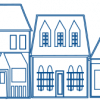
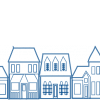
finalized placements

diff --git a/wp-content/themes/themer/core.less b/wp-content/themes/themer/core.less
@@ -6,11 +6,44 @@ body{
 }
 
 .logo{
- margin:0 auto;
+ margin:5px auto;
 
   
 }
+.navbar{
+  margin:0;
+  background:#0099cc;
+  color:#fff;
+  border-bottom:0;
+   ul li a{
+      color:#fff;
 
+    }
+  li:hover{
+    background: #fabe2b;
+    color:#fff;
+    
+  }
+  .navbar-toggle{
+    color:#fff;
+    border:none;
+    
+  }
+  .navbar-toggle:hover{
+    background:#0099cc;
+    color:#fff;
+    border:none;
+
+  }
+}
+.navbar-default .navbar-nav > li > a {
+  color: #fff;
+  
+}
+.navbar-default .navbar-nav > li > a:hover {
+  color: #fff;
+
+}
 .slider-caption{
   position:absolute;
 
@@ -18,26 +51,51 @@ body{
 
 }
 
+#books{
+  h4{
+    color:#851a1e;
+    font-size:1.2em;
+    
+  }
+  h5{
+    color:#999999;
+    font-size:1em;
+    
+  }
+  
+}
+
 .about{
   background:#eef6f8;
-  
+  font-size:1.1em;
+  .col-md-5{
+    padding-right:0;
+    
+  }
+  .houses{
+    float:right;
+
+  }
+  img{
+    float:right;
+
+  }
 }
 
-.houses{
- 
-  vertical-align: bottom;
 
-  
-}
 
 footer{
   background:#0099cc;
   color:#fff;
   line-height:1.5em;
-  padding:20px;
+  padding:20px 0 20px 0;
   
   a{
     color:#fff;
+    font-weight:500;
+  }
+  p{
+    font-weight:700;
     
   }
   

diff --git a/wp-content/themes/themer/core.css b/wp-content/themes/themer/core.css
@@ -4,24 +4,71 @@ body {
   margin: 0;
 }
 .logo {
-  margin: 0 auto;
+  margin: 5px auto;
+}
+.navbar {
+  margin: 0;
+  background: #0099cc;
+  color: #fff;
+  border-bottom: 0;
+}
+.navbar ul li a {
+  color: #fff;
+}
+.navbar li:hover {
+  background: #fabe2b;
+  color: #fff;
+}
+.navbar .navbar-toggle {
+  color: #fff;
+  border: none;
+}
+.navbar .navbar-toggle:hover {
+  background: #0099cc;
+  color: #fff;
+  border: none;
+}
+.navbar-default .navbar-nav > li > a {
+  color: #fff;
+}
+.navbar-default .navbar-nav > li > a:hover {
+  color: #fff;
 }
 .slider-caption {
   position: absolute;
   right: 150px;
 }
+#books h4 {
+  color: #851a1e;
+  font-size: 1.2em;
+}
+#books h5 {
+  color: #999999;
+  font-size: 1em;
+}
 .about {
   background: #eef6f8;
+  font-size: 1.1em;
 }
-.houses {
-  vertical-align: bottom;
+.about .col-md-5 {
+  padding-right: 0;
+}
+.about .houses {
+  float: right;
+}
+.about img {
+  float: right;
 }
 footer {
   background: #0099cc;
   color: #fff;
   line-height: 1.5em;
-  padding: 20px;
+  padding: 20px 0 20px 0;
 }
 footer a {
   color: #fff;
+  font-weight: 500;
+}
+footer p {
+  font-weight: 700;
 }

diff --git a/wp-content/themes/themer/loop.php b/wp-content/themes/themer/loop.php
@@ -5,8 +5,8 @@
 
 		<?php if ( has_post_thumbnail()) : // Check if thumbnail exists ?>
 				<?php the_post_thumbnail(array(1200,500)); // Declare pixel size you need inside the array ?>
-			<span class="slider-caption col-md-9">
-				<h2><?php echo the_content();?></h2>
+			<span class="slider-caption col-md-7">
+				<h3><?php echo the_content();?></h3>
 			</span>
 
 		<?php endif; ?>
@@ -19,10 +19,10 @@
 	<div class="row">
 		
 
-	<div class="container-fluid">
+<!--	<div class="container-fluid">-->
 
 
-			<div class="col-md-8 col-md-offset-2 <?php echo $post->post_name;?>">
+			<div id="books" class="col-sm-8 col-offset-2 col-md-8 col-md-offset-2 <?php echo $post->post_name;?>">
 				<h2>Books</h2>
 
 				<?php
@@ -39,19 +39,20 @@
 
 				if ($my_query->have_posts()): while($my_query->have_posts()): $my_query->the_post();
 					?>
-					<div class="col-md-4">
+					<div class="col-sm-12 col-md-4">
 						<?php $src = wp_get_attachment_image_src( get_post_thumbnail_id($post->ID), array( 500,500 ), false, '' );
 						?>
 						<img src=" <?php echo $src[0];?> " alt=""/>
 
-						<div class="col-sm-12 col-sm-offset-0 col-md-12 col-md-offset-0">
-							<h2 class="service-title"><span><?php the_title();?></span></h2>
+						<div class="col-md-12 col-md-offset-0">
+							<h4 class="service-title"><?php the_title();?></h4>
 							<?php the_content();?>
 						</div>
 					</div>
 				<?php endwhile; endif; wp_reset_postdata(); ?>
+				<br/>
 			</div>
-
+		
 			<?php
 			$type = 'about';
 			$args = array(
@@ -66,7 +67,7 @@
 			if ($my_query->have_posts()): while($my_query->have_posts()): $my_query->the_post();
 				?>
 				<?php 	$src = wp_get_attachment_image_src( get_post_thumbnail_id($post->ID), array( 500,500 ), false, '' );?>
-				<div class="about col-md-12">
+				<div id="about" class="about col-md-12">
 
 					<div class="col-sm-12 col-sm-offset-0 col-md-5 col-md-offset-2" >
 						<h2 class="about-title"><?php the_title();?></h2>
@@ -77,7 +78,7 @@
 					</div>
 					<div class="col-md-5">
 
-						<img class="houses col-md-12" src="<?php echo $src[0];?>"/>
+						<img class="houses" src="<?php echo $src[0];?>"/>
 
 					</div>
 				</div>	
@@ -86,7 +87,7 @@
 			<?php endwhile; endif; wp_reset_postdata(); ?>
 
 		<!--End Content-->
-	</div>
+<!--	</div>-->
 	</div>
 <?php else: ?>
 

diff --git a/wp-content/themes/themer/sidebar.php b/wp-content/themes/themer/sidebar.php
@@ -1,5 +1,5 @@
 <!-- sidebar -->
-<div class="container">
+<div class="container-fluid">
 	
 
 <aside class=" col-md-8 col-md-offset-2 sidebar" role="complementary">
@@ -13,7 +13,8 @@
 		<?php if(!function_exists('dynamic_sidebar') || !dynamic_sidebar('widget-area-2')) ?>
 	</div>
 	<br/>
-	&copy; <?php echo date('Y'); ?> Copyright <?php bloginfo('name'); ?> <?php _e('Solutions Group'); ?>
+	<br/>
+	<p>&copy; <?php echo date('Y'); ?> Copyright <?php bloginfo('name'); ?> <?php _e('Solutions Group'); ?></p>
 
 </aside>
 </div>
